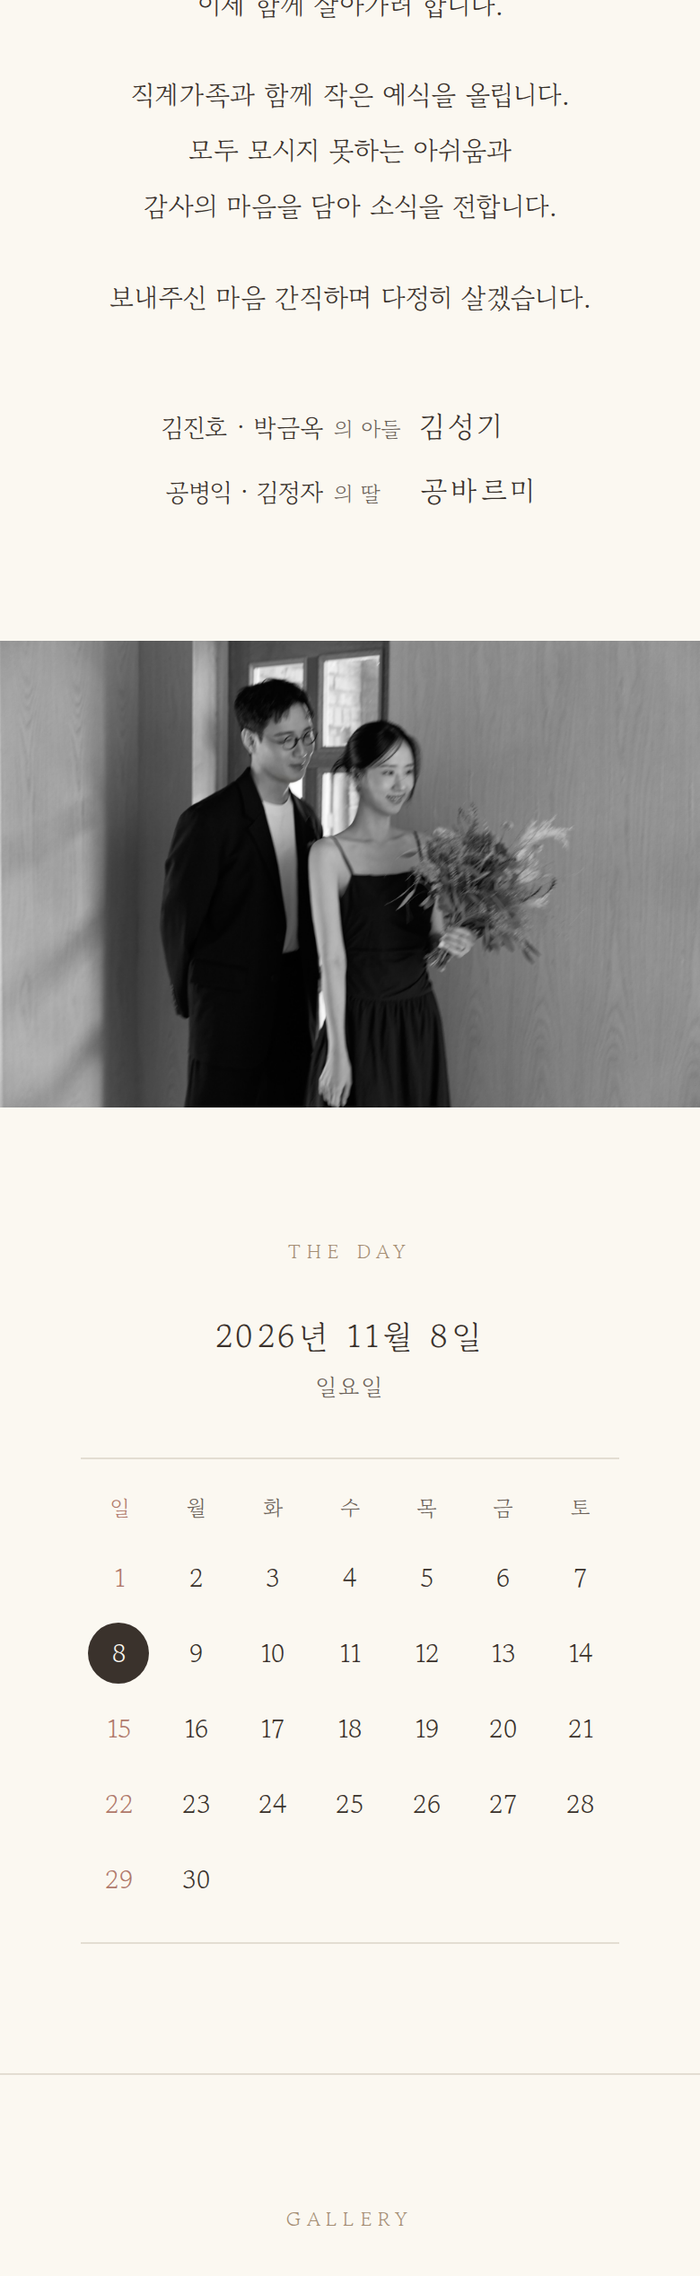
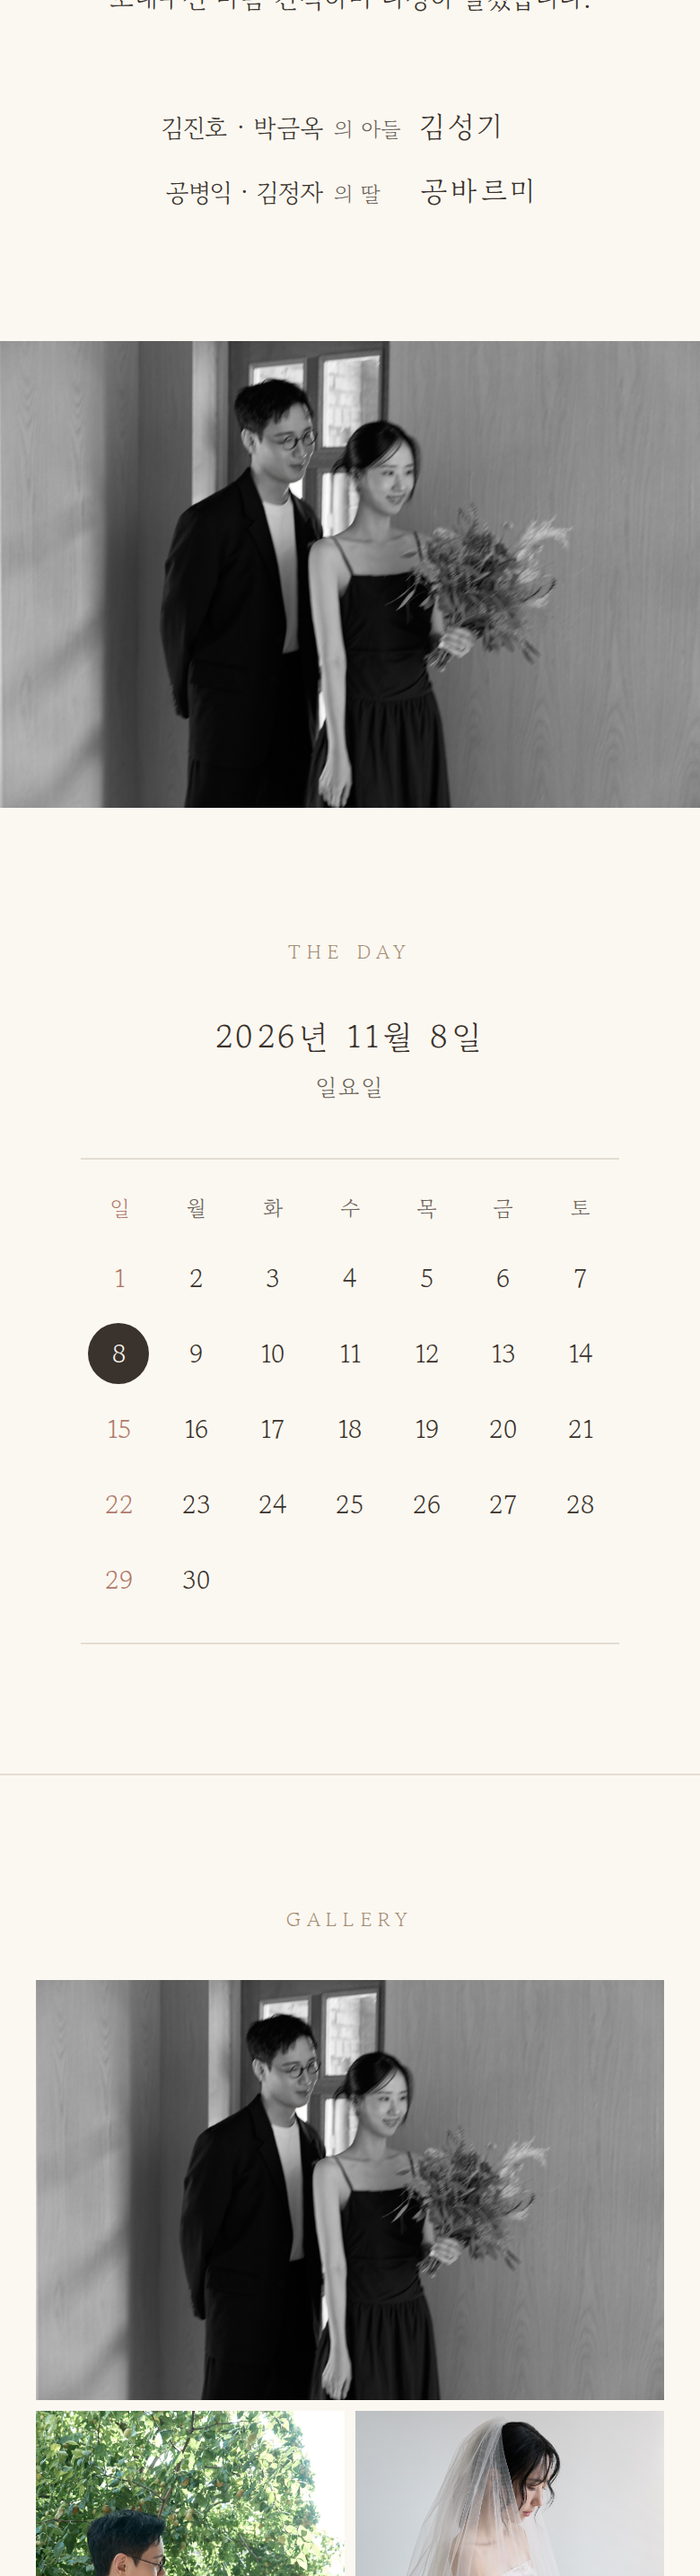
Show all five photos in the gallery grid
Claude-Session: https://claude.ai/code/session_01HZb35hFMxinBUJruQWuUj6

diff --git a/mobile/index.html b/mobile/index.html
@@ -77,7 +77,8 @@
   /* 6. 갤러리 */
   .gallery { border-top: 1px solid var(--line); padding-left: 20px; padding-right: 20px; }
   .pair { display: grid; grid-template-columns: 1fr 1fr; gap: 6px; }
-  .pair img { aspect-ratio: 2 / 3; object-fit: cover; cursor: zoom-in; }
+  .pair img { aspect-ratio: 2 / 3; object-fit: cover; }
+  .pair .full { grid-column: 1 / -1; aspect-ratio: 3 / 2; }
   .hint { margin-top: 14px; font-size: 12px; color: var(--ink-soft); }
 
   /* 7. 마무리 */
@@ -108,7 +109,7 @@
 
   <!-- 1. 커버 -->
   <section class="cover">
-    <img src="img/01-cover.jpg" alt="김성기와 공바르미가 나무 아래에서 서로 마주 보는 사진" data-i="0">
+    <img src="img/01-cover.jpg" alt="김성기와 공바르미가 나무 아래에서 서로 마주 보는 사진">
     <div class="names fade">김성기<span>그리고</span>공바르미</div>
     <div class="when fade">2026. 11. 8. 일요일</div>
   </section>
@@ -133,7 +134,7 @@
 
   <!-- 4. 흑백 사진 -->
   <section class="wide fade">
-    <img src="img/02-bw.jpg" alt="두 사람이 나란히 걸어가는 흑백 사진" data-i="1">
+    <img src="img/02-bw.jpg" alt="두 사람이 나란히 걸어가는 흑백 사진">
   </section>
 
   <!-- 5. 날짜 -->
@@ -155,15 +156,18 @@
   <section class="gallery fade">
     <div class="eyebrow">GALLERY</div>
     <div class="pair">
-      <img src="img/03-veil.jpg" alt="베일을 쓴 신부 사진" data-i="2">
-      <img src="img/04-brick.jpg" alt="벽돌 벽 옆에서 부케를 든 신부 사진" data-i="3">
+      <img class="full" src="img/02-bw.jpg" alt="두 사람이 나란히 걸어가는 흑백 사진" data-g>
+      <img src="img/01-cover.jpg" alt="김성기와 공바르미가 나무 아래에서 서로 마주 보는 사진" data-g>
+      <img src="img/03-veil.jpg" alt="베일을 쓴 신부 사진" data-g>
+      <img src="img/04-brick.jpg" alt="벽돌 벽 옆에서 부케를 든 신부 사진" data-g>
+      <img src="img/05-garden.jpg" alt="정원에서 베일을 쓰고 웃는 신부 사진" data-g>
     </div>
     <div class="hint">사진을 누르면 크게 볼 수 있어요</div>
   </section>
 
   <!-- 7. 마무리 -->
   <section class="ending fade">
-    <img src="img/05-garden.jpg" alt="정원에서 베일을 쓰고 웃는 신부 사진" data-i="4">
+    <img src="img/05-garden.jpg" alt="정원에서 베일을 쓰고 웃는 신부 사진">
     <p>저희의 새로운 시작을<br>따뜻한 마음으로 지켜봐 주셔서<br>고맙습니다.</p>
     <div class="sign">성기 · 바르미 드림</div>
   </section>
@@ -187,7 +191,7 @@
   document.querySelectorAll('.fade').forEach(el => io.observe(el));
 
   // 사진 크게 보기 (모든 사진 좌우로 넘김)
-  const imgs = [...document.querySelectorAll('main img[data-i]')];
+  const imgs = [...document.querySelectorAll('.gallery img[data-g]')];
   const lb = document.getElementById('lb'), lbImg = document.getElementById('lbImg'), lbNum = document.getElementById('lbNum');
   let cur = 0;
   const show = i => {
@@ -195,7 +199,13 @@
     lbImg.src = imgs[cur].src; lbImg.alt = imgs[cur].alt;
     lbNum.textContent = (cur + 1) + ' / ' + imgs.length;
   };
-  imgs.forEach((im, i) => { im.style.cursor = 'zoom-in'; im.addEventListener('click', () => { show(i); lb.classList.add('open'); }); });
+  // 갤러리 사진뿐 아니라 본문 사진을 눌러도 같은 사진부터 열림
+  document.querySelectorAll('main img').forEach(im => {
+    const i = imgs.findIndex(g => g.getAttribute('src') === im.getAttribute('src'));
+    if (i < 0) return;
+    im.style.cursor = 'zoom-in';
+    im.addEventListener('click', () => { show(i); lb.classList.add('open'); });
+  });
   lb.querySelector('.x').onclick = () => lb.classList.remove('open');
   lb.querySelector('.prev').onclick = e => { e.stopPropagation(); show(cur - 1); };
   lb.querySelector('.next').onclick = e => { e.stopPropagation(); show(cur + 1); };
